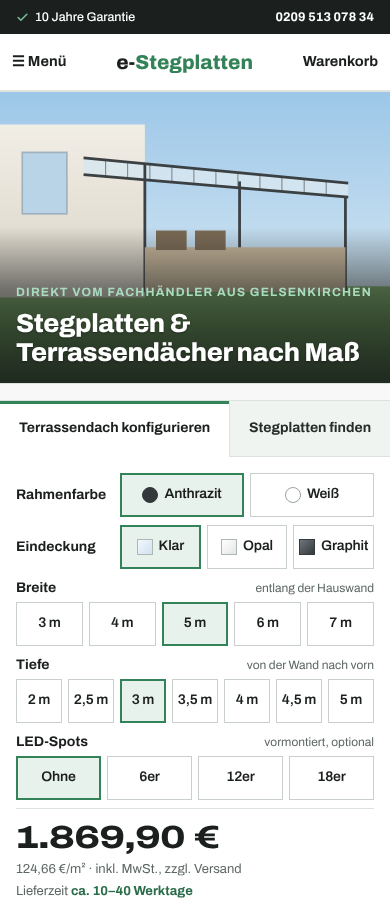
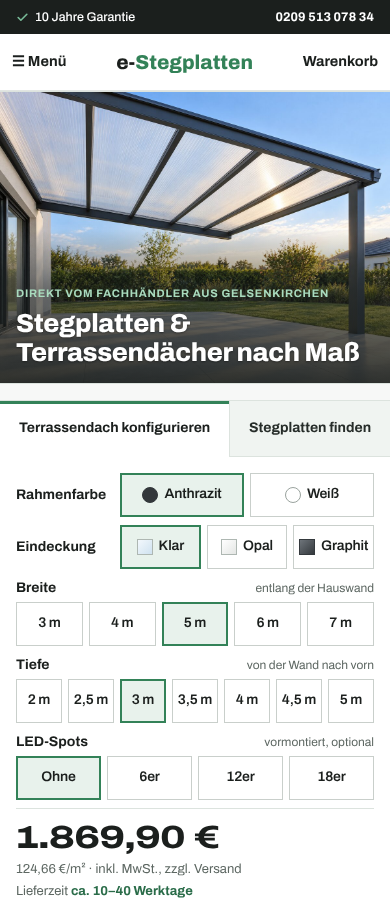
Hero: echte Bilder (Higgsfield) mit eigener Handy-Variante
- content/hero: Desktop 3:2 und Mobil 4:3 (Dach oben, ruhige Fläche für die Überschrift)
- es-landing: <picture> mit Mobil-Quelle, neue Einstellung hero_image_m
- index.json: Hero-Bilder auf die geplanten Shopify-Dateinamen gesetzt
- Kicker auf kleinen Handys kleiner; Umbruch-Report prüft ihn mit
- Renderer nutzt echte Bilddateien, HANDOFF mit Upload-Schritten

Claude-Session: https://claude.ai/code/session_01S9hv2zjJRNrto6p7dDYLeC

Changed region(s): [[0.0, 0.0933, 1.0, 0.4044]]

diff --git a/e-stegplatten-theme/tools/shoot_home.js b/e-stegplatten-theme/tools/shoot_home.js
@@ -3,7 +3,7 @@ const { chromium } = require('playwright');
 const D = '/tmp/claude-0/-home-user-test/beef7815-2c55-57f0-9ec2-48630e491a1b/scratchpad/design-review/v3/';
 let pass = 0, fail = 0;
 const eq = (n, g, w) => { const ok = JSON.stringify(g) === JSON.stringify(w); ok ? pass++ : fail++; console.log(`${ok ? '✓' : '✗'} ${n}${ok ? '' : `\n    erwartet ${JSON.stringify(w)}\n    erhalten ${JSON.stringify(g)}`}`); };
-const SEL = { 'Kachel-Titel': '.esl .cat h3', 'Kachel-Link': '.esl .cat .l', 'Trust-Titel': '.esl .trust b', 'Finder-Option': '.esl .fin__opt b, .esl .fin__opt strong', 'H2': '.esl h2', 'Tab': '.esl .ehx__tab span', 'Beleg': '.esl .proof b' };
+const SEL = { 'Kachel-Titel': '.esl .cat h3', 'Kachel-Link': '.esl .cat .l', 'Trust-Titel': '.esl .trust b', 'Finder-Option': '.esl .fin__opt b, .esl .fin__opt strong', 'H2': '.esl h2', 'Tab': '.esl .ehx__tab span', 'Beleg': '.esl .proof b', 'Kicker': '.esl .hv__tx .k' };
 const wraps = (pg) => pg.evaluate((SEL) => {
   const out = {};
   for (const [name, sel] of Object.entries(SEL)) {

diff --git a/e-stegplatten-theme/tools/v3_patch.py b/e-stegplatten-theme/tools/v3_patch.py
@@ -286,7 +286,7 @@ patch('sections/es-landing.liquid', [
      """<section class="hero" data-screen-label="Hero">
 <div class="c">
 <div class="hv">
-{%- if s.hero_image != blank -%}<img class="hv__img" src="{{ s.hero_image | image_url: width: 1400 }}" srcset="{{ s.hero_image | image_url: width: 700 }} 700w, {{ s.hero_image | image_url: width: 1000 }} 1000w, {{ s.hero_image | image_url: width: 1400 }} 1400w" sizes="(max-width:999px) 100vw, 660px" alt="{{ s.hero_image.alt | default: s.hero_title | escape }}" width="{{ s.hero_image.width | default: 1400 }}" height="{{ s.hero_image.height | default: 1050 }}" fetchpriority="high">{%- endif -%}
+{%- if s.hero_image != blank -%}<picture>{%- if s.hero_image_m -%}<source media="(max-width:749px)" srcset="{{ s.hero_image_m | image_url: width: 480 }} 480w, {{ s.hero_image_m | image_url: width: 720 }} 720w, {{ s.hero_image_m | image_url: width: 960 }} 960w, {{ s.hero_image_m | image_url: width: 1200 }} 1200w" sizes="100vw">{%- endif -%}<img class="hv__img" src="{{ s.hero_image | image_url: width: 1400 }}" srcset="{{ s.hero_image | image_url: width: 700 }} 700w, {{ s.hero_image | image_url: width: 1000 }} 1000w, {{ s.hero_image | image_url: width: 1400 }} 1400w" sizes="(max-width:999px) 100vw, 660px" alt="{{ s.hero_image.alt | default: s.hero_title | escape }}" width="{{ s.hero_image.width | default: 1400 }}" height="{{ s.hero_image.height | default: 1050 }}" fetchpriority="high"></picture>{%- endif -%}
 <div class="hv__tx">
 {%- if s.kicker != blank -%}<p class="k">{{ s.kicker }}</p>{%- endif -%}
 <h1>{{ s.hero_title }}</h1>
@@ -314,6 +314,8 @@ patch('sections/es-landing.liquid', [
 </div>
 </section>
 <section class="trust" data-screen-label="Vertrauen">"""),
+    ('{"type":"image_picker","id":"hero_image","label":"Bild"},',
+     '{"type":"image_picker","id":"hero_image","label":"Bild"},{"type":"image_picker","id":"hero_image_m","label":"Bild für Handys (optional, 4:3 – Dach oben, ruhige Fläche unten)","info":"Ohne Auswahl wird das Bild oben auch auf Handys verwendet."},'),
     ("""<h3>{{ b.settings.title | escape | replace: 'Terrassenüberdachung', 'Terrassen&shy;überdachung' | replace: 'Stegplatten', 'Steg&shy;platten' }}</h3>""",
      """<h3>{{ b.settings.title | escape }}</h3>"""),
 ])
@@ -401,6 +403,7 @@ patch('snippets/es-landing-css.liquid', [
     # Trust-Leiste auf Handys einspaltig (Titel nowrap, Zusatz daneben oder darunter); H2 und Kacheln bei sehr schmalen Geräten
     ("@media(max-width:380px){.esl h1{font-size:24px}}",
      """@media(max-width:480px){
+.esl .hv__tx .k{font-size:11px;letter-spacing:.07em}
 .esl .trust .c{grid-template-columns:1fr}
 .esl .trust .c>div{padding:10px 16px}
 .esl .trust span{display:flex;flex-wrap:wrap;align-items:baseline;gap:0 8px}
@@ -427,6 +430,9 @@ d = json.loads(raw[len(head):])
 L = d['sections']['es_landing']
 L['blocks']['t2']['settings'] = {'title': 'Zuschnitt millimetergenau', 'text': 'rechtwinklig, Kanten entgratet, Kammern staubfrei'}
 L['settings']['muster_url'] = '/products/farbmuster'
+# Hero-Bilder (Higgsfield-Generate, Quelle content/hero/*.jpg) – Dateien müssen vor dem Theme-Upload in Shopify > Inhalte > Dateien liegen
+L['settings']['hero_image'] = 'shopify://shop_images/hero-terrassendach-stegplatten.jpg'
+L['settings']['hero_image_m'] = 'shopify://shop_images/hero-terrassendach-stegplatten-mobil.jpg'
 L['blocks']['c1']['settings'].update({'title': 'Stegplatten', 'text': 'Doppelstegplatten 4,5–16 mm, Polycarbonat oder Acrylglas – millimetergenau zugeschnitten.'})
 L['blocks']['c2']['settings']['title'] = 'Terrassendächer'
 L['blocks']['c4']['settings']['cta'] = 'Nach Stärke'

diff --git a/e-stegplatten-theme/tools/render_home.py b/e-stegplatten-theme/tools/render_home.py
@@ -17,7 +17,12 @@ assert '{% schema %}' not in body_src
 idx = read_index()
 L = idx['sections']['es_landing']
 settings = {**defaults, **L['settings']}
-settings['hero_image'] = {'alt': '', 'width': 1400, 'height': 1050, 'hero': True}
+hd, hm = S / 'content/hero/hero-desktop.jpg', S / 'content/hero/hero-mobile.jpg'
+settings['hero_image'] = {'alt': '', 'width': 1536, 'height': 1024, 'src': hd.as_uri()} if hd.exists() else {'alt': '', 'width': 1400, 'height': 1050, 'hero': True}
+if hm.exists():
+    settings['hero_image_m'] = {'alt': '', 'width': 1024, 'height': 768, 'src': hm.as_uri()}
+else:
+    settings.pop('hero_image_m', None)
 blocks = [{'type': L['blocks'][k]['type'], 'settings': L['blocks'][k]['settings'], 'shopify_attributes': ''} for k in L['block_order']]
 kh = settings.get('konfig_handle') or 'terrassenuberdachung-alu-mit-stegplatten'
 

diff --git a/e-stegplatten-theme/tools/mockdata.py b/e-stegplatten-theme/tools/mockdata.py
@@ -109,7 +109,7 @@ def load_snippet(name):
 def make_env(snippets):
     env = Environment(loader=DictLoader(snippets))
     env.add_filter('json', lambda v: json.dumps(v, ensure_ascii=False))
-    env.add_filter('image_url', lambda v, width=None: HERO if isinstance(v, dict) and v.get('hero') else PH)
+    env.add_filter('image_url', lambda v, width=None: v['src'] if isinstance(v, dict) and v.get('src') else (HERO if isinstance(v, dict) and v.get('hero') else PH))
     env.add_filter('money_without_currency', money)
     env.add_filter('money', lambda v: money(v) + ' €')
     env.add_filter('handle', handle)

diff --git a/e-stegplatten-theme/HANDOFF.md b/e-stegplatten-theme/HANDOFF.md
@@ -31,9 +31,14 @@ Shopify-Verbindung war weg (Shop-Wechsel beim Lesen der TerrassenPost-Preise hat
 | `snippets/es-pdp-css.liquid` | Styles für Montage, Panels, Formular, Druckansicht. |
 | `snippets/es-led-guard.liquid` | Wächter jetzt für LED **und** Montage (Handles in `ADD` + Liquid-Liste pflegen). |
 | `snippets/es-hero-konfig.liquid` | Zeile „Farbmuster bestellen · Angebot anfordern“ (Link übergibt Variante/LED + `angebot=1`). Neuer Parameter `mu`. |
-| `sections/es-landing.liquid` | **Hero beginnt mit dem Bild** (Kicker + H1 + Lead liegen auf dem Bild, Konfigurator rechts daneben, Belege darunter; mobil Bild → Konfigurator → Belege). Beleg 3 = Judge.me-Gesamtwertung („4,9 ★ aus 212 Bewertungen“ aus `shop.metafields.judgeme.all_reviews_*`, Fallback Text); Belege als Zeilen mit Haken. Kategorie-Titel ohne weiche Trennstriche. Einstellung `muster_url`. |
+| `sections/es-landing.liquid` | **Hero beginnt mit dem Bild** (Kicker + H1 + Lead liegen auf dem Bild, Konfigurator rechts daneben, Belege darunter; mobil Bild → Konfigurator → Belege; `<picture>` mit eigener Handy-Quelle über die neue Einstellung `hero_image_m`, `fetchpriority=high`). Beleg 3 = Judge.me-Gesamtwertung („4,9 ★ aus 212 Bewertungen“ aus `shop.metafields.judgeme.all_reviews_*`, Fallback Text); Belege als Zeilen mit Haken. Kategorie-Titel ohne weiche Trennstriche. Einstellung `muster_url`. |
 | `snippets/es-landing-css.liquid` | Hero-Raster (Bild/Konfigurator/Belege), Bildüberlagerung; **Überschriften möglichst einzeilig:** Kachel-Titel/-Links skalieren mit der Kachelbreite (`cqi`), keine Silbentrennung; Belege als Zeilen (Titel `nowrap`, Zusatz rückt darunter); Hero-Tabs verteilen die Breite nach Beschriftung; Trust-Leiste ≤ 480 px einspaltig; H2 ≤ 380 px 22 px; Kacheln ≤ 359 px als Liste (Bild links). |
-| `templates/index.json` | Trust-Leiste: „Zuschnitt millimetergenau – rechtwinklig, Kanten entgratet, Kammern staubfrei“; Kacheln „Stegplatten“ / „Terrassendächer“, CTA „Nach Stärke“; Farbmuster-Link im Finder; `muster_url`. |
+| `templates/index.json` | Hero-Bilder `hero_image` = `shopify://shop_images/hero-terrassendach-stegplatten.jpg`, `hero_image_m` = `…-mobil.jpg` (siehe unten); Trust-Leiste: „Zuschnitt millimetergenau – rechtwinklig, Kanten entgratet, Kammern staubfrei“; Kacheln „Stegplatten“ / „Terrassendächer“, CTA „Nach Stärke“; Farbmuster-Link im Finder; `muster_url`. |
+
+**Vor dem Theme-Upload – Hero-Bilder in Shopify anlegen (Inhalte → Dateien):** `content/hero/hero-desktop.jpg` (1600×1063, Desktop/Tablet) und `content/hero/hero-mobile.jpg` (1200×896, 4:3 für Handys: Dach oben, ruhige Fläche unten für die Überschrift). Beide mit Higgsfield (GPT Image 2.5) generiert; die Originale (PNG 2048×1360 bzw. 2336×1744) liegen unter
+`https://d8j0ntlcm91z4.cloudfront.net/user_38rBUK7GWLxdZvf7m1Da0aQIqoE/hf_20261023_070336_13a26f0e-ef76-40c8-9784-e1fb1d86400c.png` (Desktop) und
+`https://d8j0ntlcm91z4.cloudfront.net/user_38rBUK7GWLxdZvf7m1Da0aQIqoE/hf_20261023_070337_cff4e2fa-b146-4bcc-954c-b85a34e27416.png` (mobil).
+Anlegen per `fileCreate` (`originalSource` = die CDN-URL oder Staged Upload der JPEGs, `contentType: IMAGE`, `filename` = `hero-terrassendach-stegplatten.jpg` / `hero-terrassendach-stegplatten-mobil.jpg`, Alt-Text „Alu-Terrassenüberdachung anthrazit mit 16 mm Stegplatten“). Vergibt Shopify einen anderen Dateinamen, vorher `hero_image`/`hero_image_m` in `theme/v3/new/templates/index.json` anpassen – sonst zeigt der Hero kein Bild. Zwei weitere Varianten (Jobs `b2b7f4a1…`, `f8048db1…`) liegen in der Higgsfield-Bibliothek.
 
 **Upload:** `python3 tools/upload.py stage theme/v3` → stagedUploadsCreate → `put` → `upsert` → Job abwarten → `verify` (Manifest aus `theme/v3/new` erzeugen).
 
